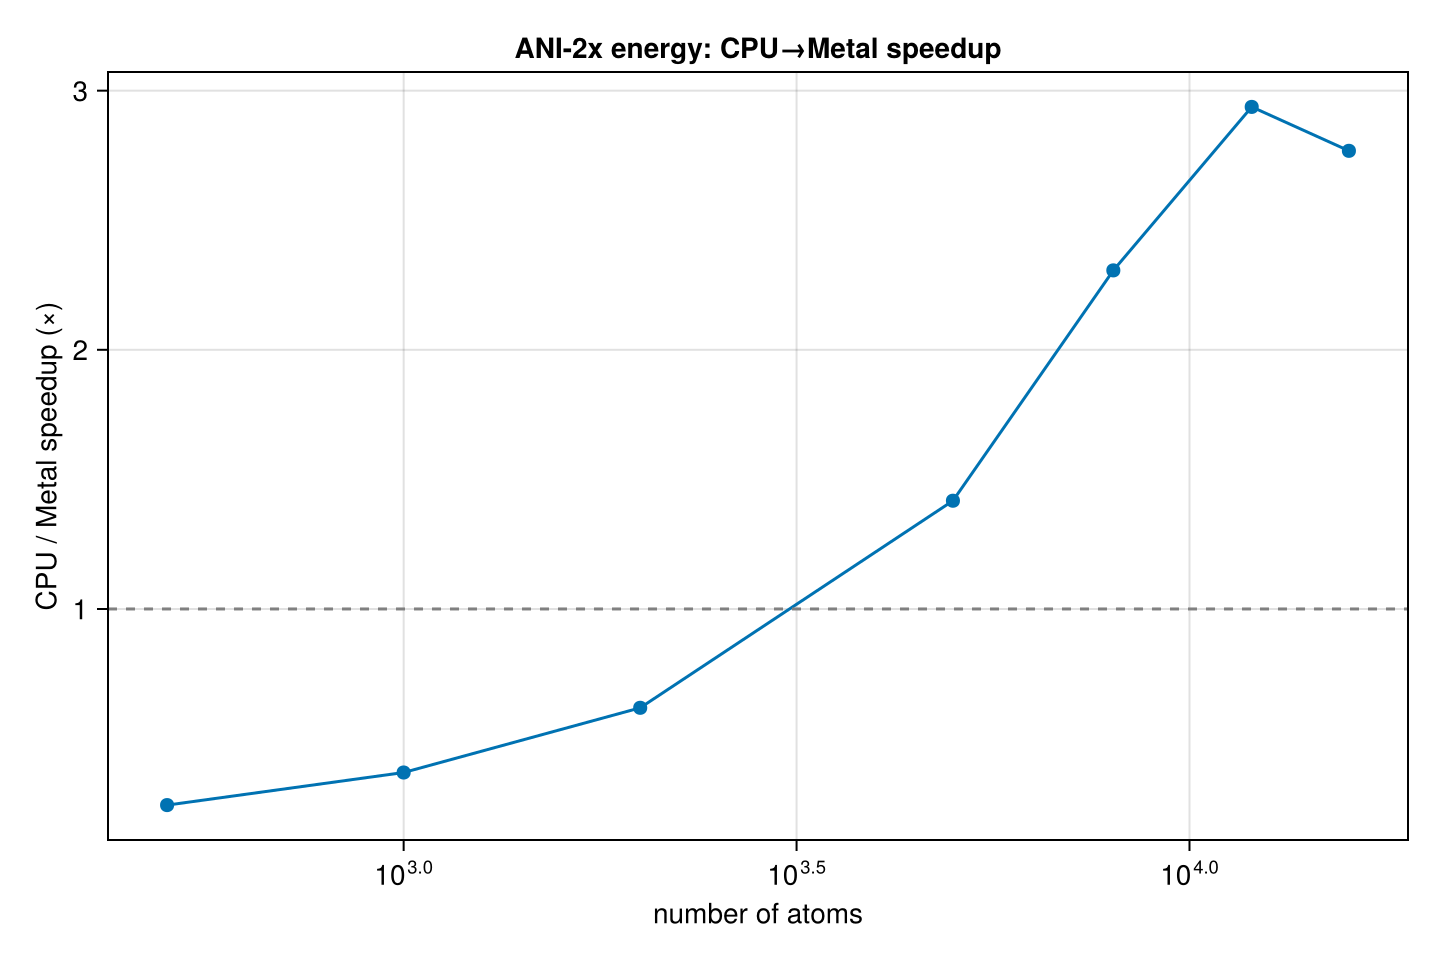
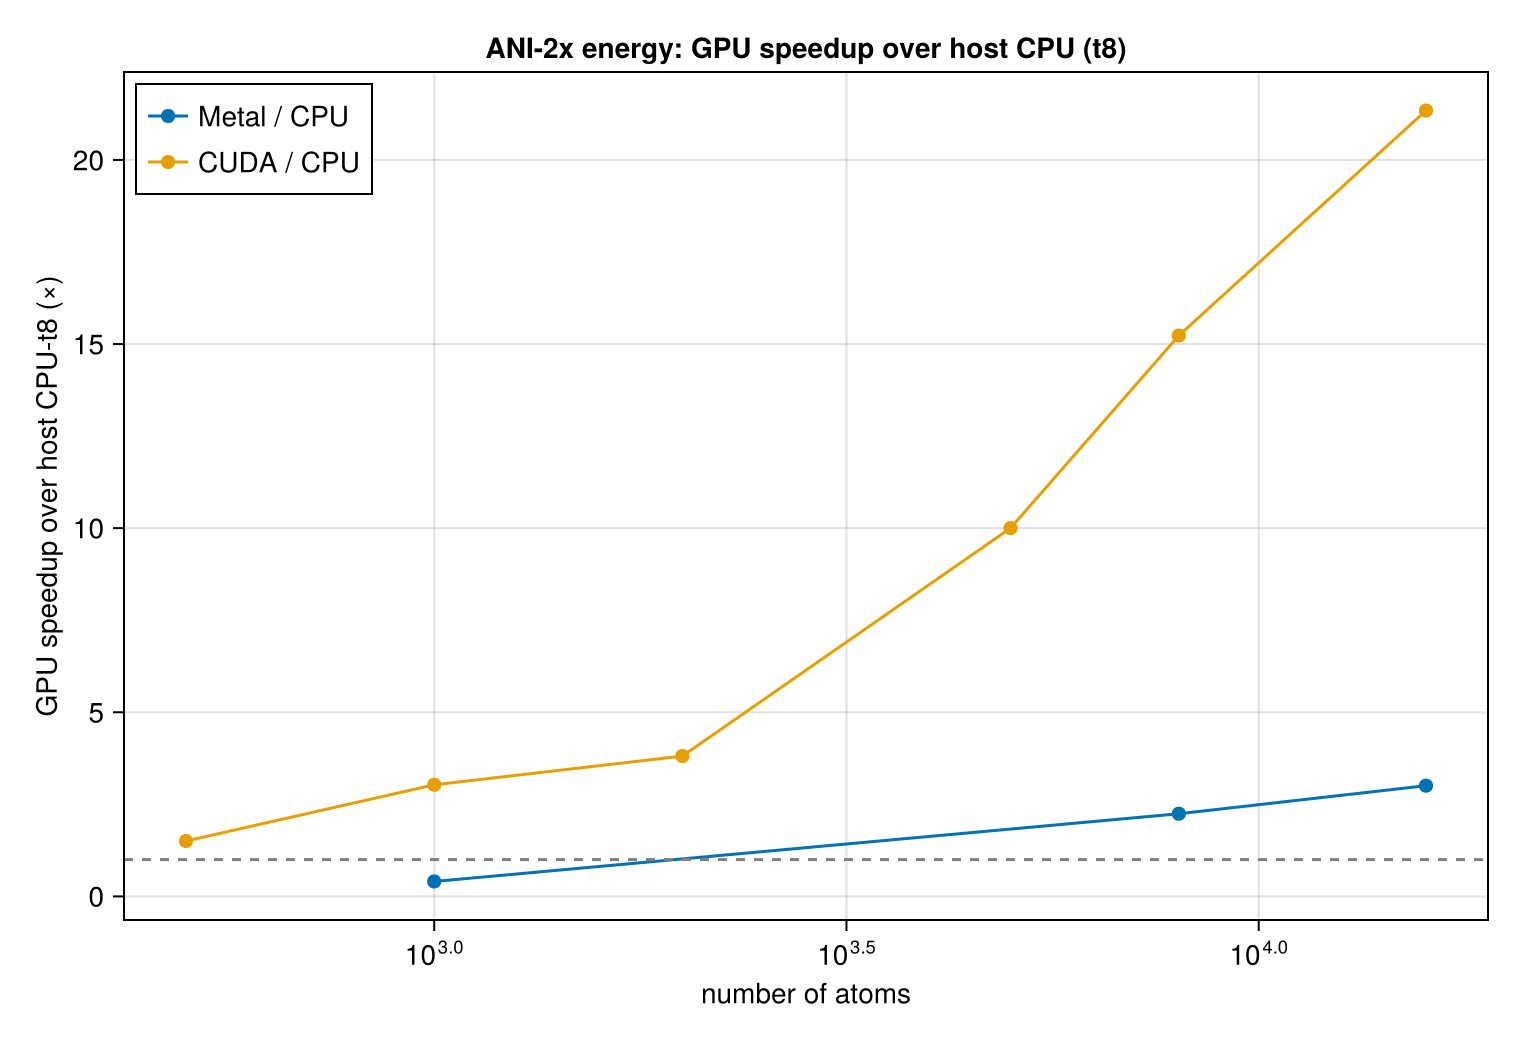
ANI: NVIDIA CUDA benchmarks on RTX 5080 — Molly vs TorchANI, plots + doc (PR #260)
- benchmark/ani_cuda_compare.jl: CPU vs CUDA energy+forces via the backend-portable KA path
  (CuArray + CUDABackend()). Loads cuDNN so Lux.gpu_device() selects CUDA; fixes a var-name
  shadow of Molly's forces.
- ani_plots.jl: CUDA energy/forces-vs-N figures; speedup figures now overlay every GPU backend
  (Metal + CUDA) over its own host CPU in one plot.
- ani_benchmarks.md: NVIDIA CUDA (RTX 5080) section with correctness (energy 1.1e-10, forces
  2.7e-4 eV/Å, ΣF≈0) and Molly-vs-TorchANI tables; CUDA now the GPU-vs-GPU head-to-head.
- torchani_reference.py: --threads for a matched CPU comparison.

RTX 5080 (Blackwell sm_120), Julia 1.10.10, CUDA 13.3. At 15,954 atoms Molly-CUDA is 21x the
host CPU on energy and 19x on forces; within ~1.25x of TorchANI-CUDA on energy, 0.9-2.3x on forces.

diff --git a/test/torchani_reference.py b/test/torchani_reference.py
@@ -326,7 +326,7 @@ def print_aev_summary(model):
 # -------------------------------------------------------------------------
 
 def timing_benchmark(model, device="cpu", sizes=(500, 1000, 2000), samples=20,
-                     pdb_path="data/6mrr_equil.pdb"):
+                     pdb_path="data/6mrr_equil.pdb", threads=0):
     """Time TorchANI energy and forces on 6mrr slices, for comparison against Molly.
 
     Warms up, then takes the min over `samples` runs with device synchronisation, matching
@@ -378,7 +378,8 @@ def timing_benchmark(model, device="cpu", sizes=(500, 1000, 2000), samples=20,
         results["sizes"][str(len(idx))] = {"energy_ms": t_e, "forces_ms": t_f}
         print(f"  n={len(idx):5d}   energy {t_e:8.2f} ms    forces {t_f:8.2f} ms")
 
-    out = f"data/ani_reference/6mrr_timing_torchani_{device}.json"
+    tsuf = f"_t{threads}" if (device == "cpu" and threads > 0) else ""
+    out = f"data/ani_reference/6mrr_timing_torchani_{device}{tsuf}.json"
     with open(out, "w") as f:
         json.dump(results, f, indent=2)
     print(f"  wrote {out}")
@@ -394,14 +395,21 @@ if __name__ == "__main__":
     parser.add_argument("--device", default="cpu", choices=["cpu", "cuda"])  # MPS unusable (see note)
     parser.add_argument("--sizes", default="500,1000,2000", help="comma list of atom counts")
     parser.add_argument("--samples", type=int, default=20)
+    parser.add_argument("--threads", type=int, default=0,
+                        help="CPU threads for PyTorch (0 = library default); use 1 or 8 for a matched comparison")
     args = parser.parse_args()
+
+    if args.threads > 0:
+        torch.set_num_threads(args.threads)
+        try: torch.set_num_interop_threads(1)
+        except Exception: pass
 
     model = get_model()
 
     if args.benchmark:
         timing_benchmark(model, device=args.device,
                          sizes=[int(s) for s in args.sizes.split(",")],
-                         samples=args.samples)
+                         samples=args.samples, threads=args.threads)
         print("\nDone. Timing in data/ani_reference/")
     else:
         n2_dimer_reference(model)

diff --git a/benchmark/ani_benchmarks.md b/benchmark/ani_benchmarks.md
@@ -5,7 +5,8 @@ Consolidated performance and correctness results for Molly's native ANI-2x imple
 **Setup:** Apple Silicon (12 cores: 8P + 4E), Julia 1.12, ANI-2x, Float32 AEVs. Systems are
 slices of `data/6mrr_equil.pdb` with a `DistanceNeighborFinder` (cutoff `max(r_c_R,r_c_A)+1 = 6.1 Å`),
 single ensemble member (`ensemble_idx=0`) unless noted. "CPU" numbers use `-t8` unless a thread
-count is given.
+count is given. The **NVIDIA CUDA section** is measured on a separate RTX 5080 host (its CPU column
+is that host, not Apple Silicon) — see that section.
 
 **Reproduce:**
 ```
@@ -14,8 +15,11 @@ julia --project=<env> -t 8  benchmark/ani_gpu_compare.jl   # CPU vs Apple Metal 
 julia --project=<env> -t 8  benchmark/ani_forces_gpu.jl    # CPU (analytic) vs Metal forces → results/ani_forces.json
 julia --project=<env> -t 8  benchmark/ani_trajectory.jl    # 6mrr NVE trajectory (DCD)
 julia --project=<env> -t 8  benchmark/run_ani_benchmarks.jl  # driver: energy+forces JSON + CairoMakie figures
-python  test/torchani_reference.py --benchmark --device cpu   # TorchANI reference timing
+julia --project=<env> -t 8  benchmark/ani_cuda_compare.jl  # CPU vs NVIDIA CUDA energy+forces → results/ani_cuda_*.json
+python  test/torchani_reference.py --benchmark --device cpu   # TorchANI reference timing (or --device cuda)
 ```
+The CUDA script needs `CUDA` + `cuDNN` added to the env (`cuDNN` is the trigger that makes
+`Lux.gpu_device()` select CUDA). Set `ANI_SIZES` to pick the atom counts.
 Env vars: `ANI_SIZES`, `ANI_FSIZES`, `ANI_CPU_SIZES`, `ANI_FORCES`, `ANI_ENSEMBLE` (`0`|`full`),
 `ANI_SAMESPECIES`, `ANI_SKIP_PLOTS`; `ANI_TRAJ_{N,STEPS,DT_FS,LOG,TEMP}`.
 
@@ -149,6 +153,59 @@ contrast, run on-GPU and cross over similarly — see above.)
 
 ---
 
+## GPU (NVIDIA CUDA — RTX 5080)
+
+Measured on an **RTX 5080** (16 GB, Blackwell sm_120, driver 610) via `benchmark/ani_cuda_compare.jl`.
+The KA kernels are backend-portable, so this is the same analytic energy/forces path as Metal, just
+`CuArray` + `CUDABackend()`. Julia 1.10.10, CUDA 13.3, single ensemble member. **The CPU column in
+this section is the CUDA host (broadwell, `-t8`), not the Apple Silicon numbers used elsewhere**, so
+read the GPU/CPU ratios as GPU-vs-its-own-host.
+
+> `Lux.gpu_device()` needs `cuDNN` loaded to select CUDA — CUDA.jl alone leaves the NN weights on the
+> CPU (on Metal, Metal.jl is the trigger). The benchmark script loads `cuDNN` for this reason.
+
+**Correctness (CUDA vs CPU, 1000-atom slice):** energy relative diff **1.1e-10**; forces max abs diff
+**2.7e-4 eV/Å**; ΣF ≈ (6e-6, −2e-5, −2e-5) — momentum conserved. Same analytic path as Metal.
+
+Energy (single member, ms):
+
+| N atoms | CPU (t8) | Molly CUDA | TorchANI CUDA | Molly / TorchANI |
+|---------|----------|------------|---------------|------------------|
+| 500     | 50.5   | 33.5  | 32.5 | 1.03× |
+| 1000    | 113.8  | 37.6  | 32.4 | 1.16× |
+| 2000    | 157.6  | 41.4  | 32.6 | 1.27× |
+| 5000    | 428.1  | 42.8  | 35.1 | 1.22× |
+| 8000    | 735.3  | 48.3  | 38.8 | 1.24× |
+| **15,954** | 1572.4 | **73.7** | 58.2 | 1.27× |
+
+Forces (single member, ms):
+
+| N atoms | CPU (t8) | Molly CUDA | TorchANI CUDA | Molly / TorchANI |
+|---------|----------|------------|---------------|------------------|
+| 500     | 303.7  | 55.9  | 62.5 | **0.89×** |
+| 1000    | 352.8  | 67.0  | 62.5 | 1.07× |
+| 2000    | 453.7  | 78.2  | 63.3 | 1.24× |
+| 5000    | 1303.4 | 99.2  | 67.0 | 1.48× |
+| 8000    | 2113.9 | 130.1 | 72.6 | 1.79× |
+| **15,954** | 4295.5 | **230.5** | 98.9 | 2.33× |
+
+CUDA stays nearly flat while the host CPU grows linearly: at the full 6mrr protein Molly-CUDA is
+**21× the host CPU on energy and 19× on forces**. Against TorchANI on the *same* GPU, Molly's native
+Julia path is within **~1.25×** on energy at every size, and competitive on forces at small N (faster
+at 500 atoms), widening to ~2.3× slower at 16k — a solid result for a first native implementation
+against a mature, hand-optimised CUDA library.
+
+![Energy vs N — Molly CPU vs CUDA vs TorchANI](images/cuda_energy_vs_N.png)
+![Forces vs N — Molly CPU vs CUDA vs TorchANI](images/cuda_forces_vs_N.png)
+
+**GPU speedup over host CPU-t8, both backends in one view** (Metal's baseline is Apple Silicon,
+CUDA's is the cyclops host — each line is GPU-vs-its-own-host, so compare the scaling shape):
+
+![Energy speedup — Metal + CUDA](images/energy_speedup.png)
+![Forces speedup — Metal + CUDA](images/forces_speedup.png)
+
+---
+
 ## Periodic boundaries (minimum image)
 
 The CPU path and all three GPU kernels compute displacements via `Molly.vector(ci, coords[j],
@@ -184,9 +241,10 @@ Species branching is essentially free — no need to sort atoms by species.
 TorchANI energy+forces on the same slices (warmup + min-of-N with device sync), writing
 `data/ani_reference/6mrr_timing_torchani_cpu.json` to join against the Molly numbers above.
 Needs `pip install torchani==2.2.4 torch ase h5py`. This project is **Metal-only** on the GPU
-side, and TorchANI cannot run on the Apple GPU anyway (see the next paragraph), so the GPU
-comparison is Molly Metal vs TorchANI CPU. (`--device cuda` is wired for both should an NVIDIA
-GPU ever be used, but CUDA is out of scope here.)
+side, and TorchANI cannot run on the Apple GPU anyway (see the next paragraph), so the *Apple* GPU
+comparison is Molly Metal vs TorchANI CPU. A **direct GPU-vs-GPU head-to-head on the same NVIDIA
+RTX 5080** (Molly CUDA vs TorchANI CUDA) is in the [NVIDIA CUDA section](#gpu-nvidia-cuda--rtx-5080)
+above: Molly is within ~1.25× of TorchANI on energy and ~0.9–2.3× on forces across 500–15,954 atoms.
 
 Measured on this machine (TorchANI 2.2.4, `--samples 5`). **TorchANI has no usable Apple-GPU
 path**: its forward needs float64 (which PyTorch-MPS cannot store) and the angular AEV uses a 5-D
@@ -225,8 +283,9 @@ alone.
 
 - **TorchANI head-to-head** uses `test/torchani_reference.py --benchmark --device cpu` (needs a
   `pip install`); the compare-report/plots then join the reference JSON automatically. CPU-to-CPU
-  is the definitive comparison; TorchANI has no usable Apple-GPU path (see above), so a GPU
-  TorchANI number would need CUDA.
+  is the definitive comparison; TorchANI has no usable Apple-GPU path (see above). The **NVIDIA
+  GPU-vs-GPU** comparison (Molly CUDA vs TorchANI CUDA on the same RTX 5080) is now measured — see
+  the CUDA section. Both GPU sections are single-machine snapshots, not cross-machine claims.
 - **Metal forces** are timed for a **single ensemble member**. The full 8-member ensemble reuses
   one AEV forward/backward and runs only the NN VJP 8× (species-batched), so expect ~1.4× like
   energy — not yet measured on Metal.
@@ -244,6 +303,7 @@ alone.
 | `benchmark/ani.jl`               | CPU energy/forces, thread sweep, same-species diagnostic |
 | `benchmark/ani_gpu_compare.jl`   | Molly energy: CPU vs Apple Metal → `results/ani_energy.json` |
 | `benchmark/ani_forces_gpu.jl`    | Molly forces: CPU (analytic) vs Metal → `results/ani_forces.json` |
+| `benchmark/ani_cuda_compare.jl`  | Molly energy+forces: CPU vs NVIDIA CUDA → `results/ani_cuda_*.json` |
 | `benchmark/ani_trajectory.jl`    | 6mrr NVE trajectory + energy drift, DCD output |
 | `benchmark/run_ani_benchmarks.jl`| driver: energy + forces JSON, then CairoMakie figures |
 | `benchmark/ani_plots.jl`         | CairoMakie figures from `results/*.json` → `images/*.png` |
